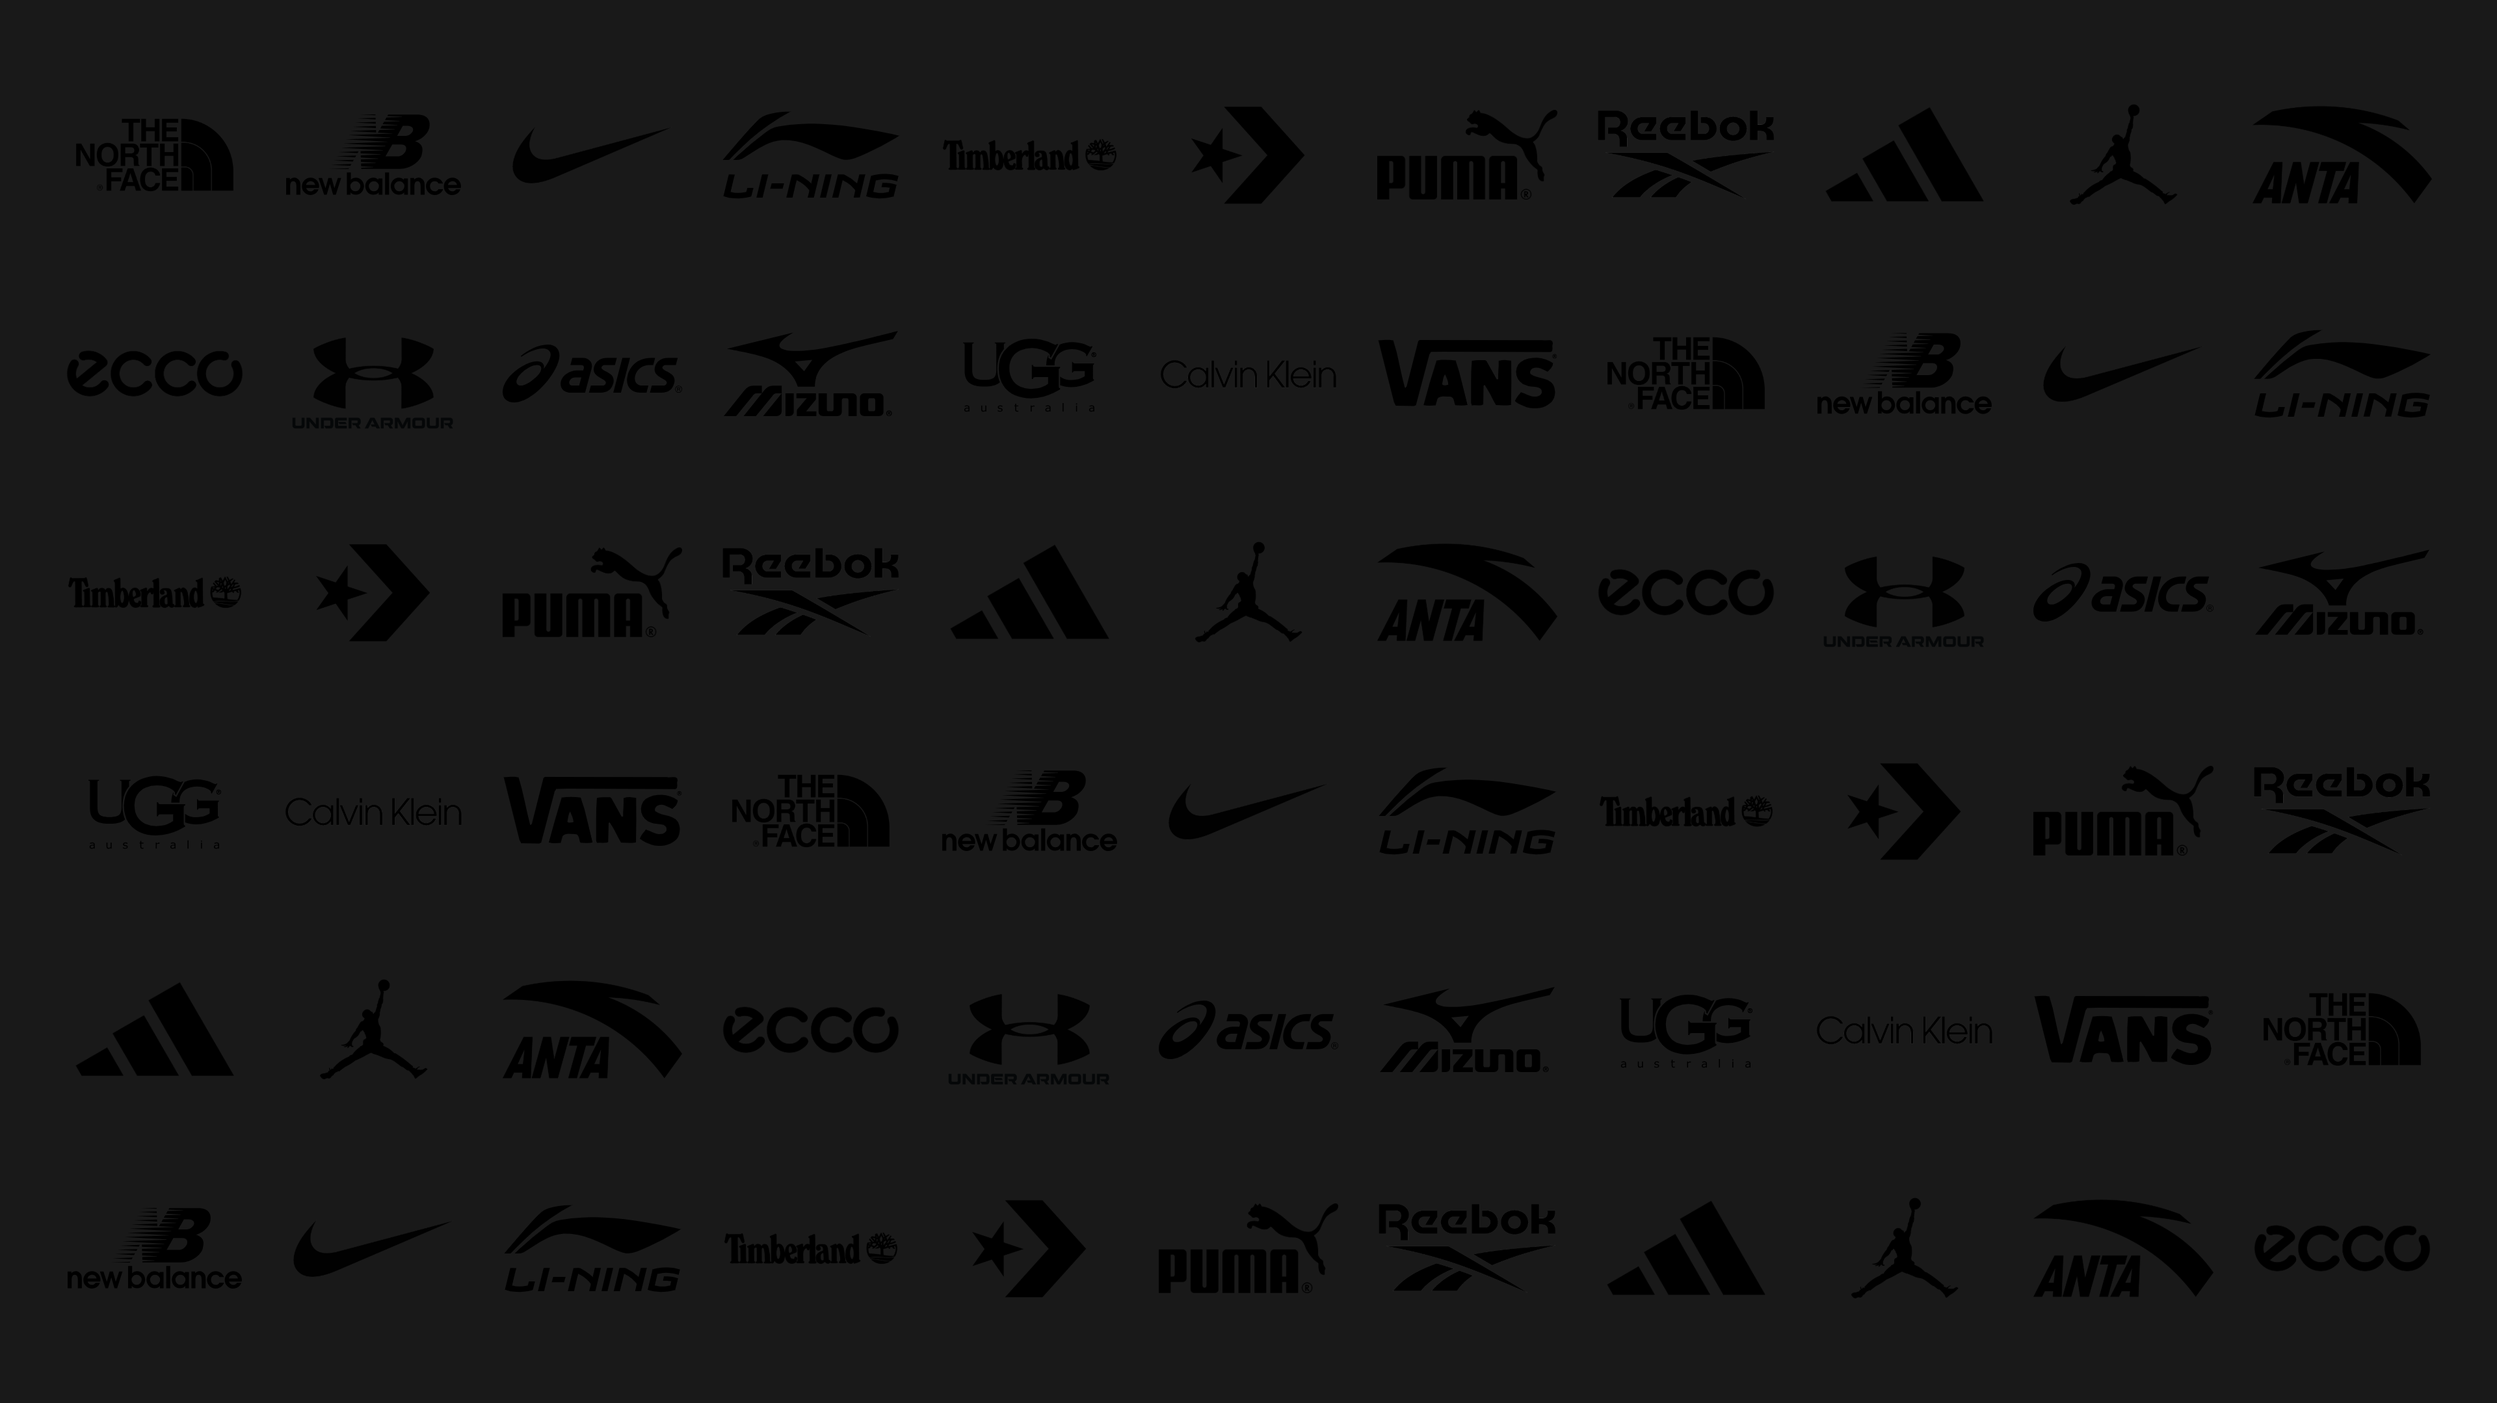
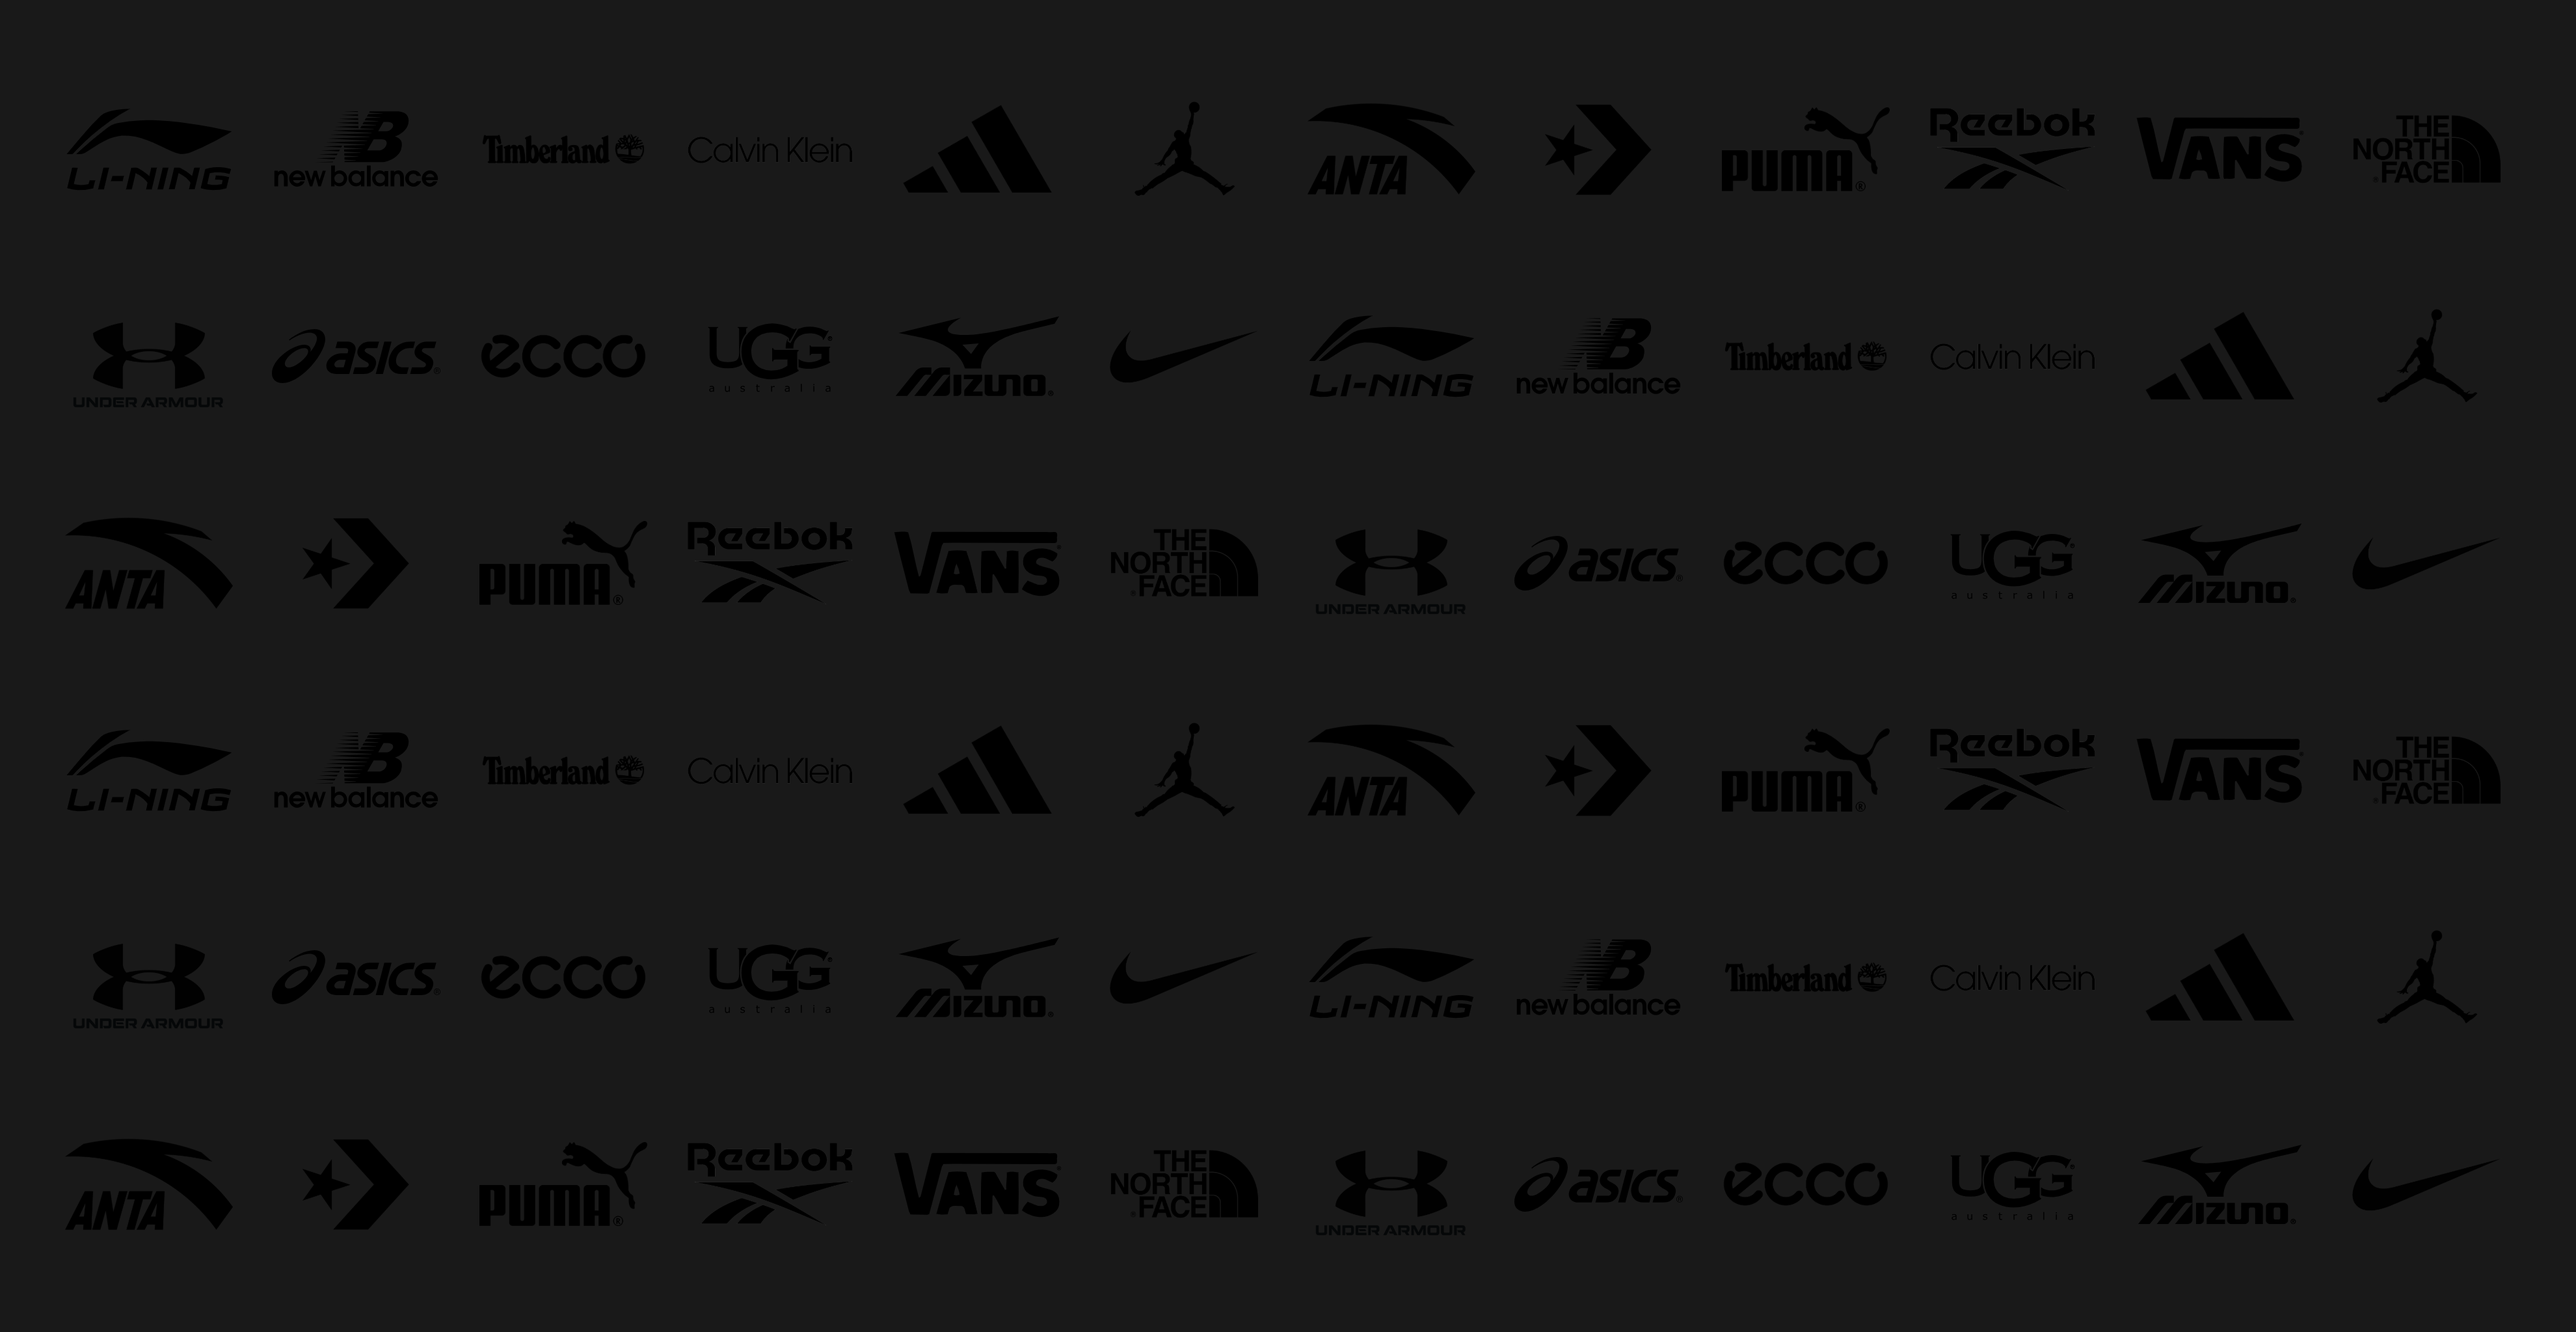
feat: final bg

diff --git a/index.html b/index.html
@@ -109,7 +109,7 @@
 
       <a class="promo__btn" href="#">Заказать</a>
     </section>
-    <div class="background">
+    <!-- <div class="background">
       <img src="icons/brands/LiNing_Logo.svg" alt="" />
       <img src="icons/brands/new-balance.svg" alt="" />
       <img src="icons/brands/Timberland-Logo.png" alt="" />
@@ -184,7 +184,7 @@
       <img src="icons/brands/ugg-australia-logo-svg-vector.svg" alt="" />
       <img src="icons/brands/mizuno.svg" alt="" />
       <img src="icons/brands/Nike-Logo-1971-now.png" alt="" />
-    </div>
+    </div> -->
     <section class="promo">
       <h1 class="promo__title">Доставка товаров <br />из Китая</h1>
       <p class="promo__descr">

diff --git a/css/blocks/app.css b/css/blocks/app.css
@@ -48,7 +48,7 @@
   margin-top: 60px;
   min-height: calc(100svh - 60px);
   padding: 0 6.4vw 13vw;
-  background-image: url(../../img/bg/test6.png);
+  background-image: url(../../img/bg/bg.png);
   /* background-position: top right; */
   background-position: center;
   background-repeat: no-repeat;
@@ -104,5 +104,5 @@
   grid-auto-rows: 1fr;
   gap: 30px;
   align-items: center;
-  background-color: rgba(0, 0, 0, 0.5);
+  background-color: rgba(0, 0, 0, 0.9);
 }
